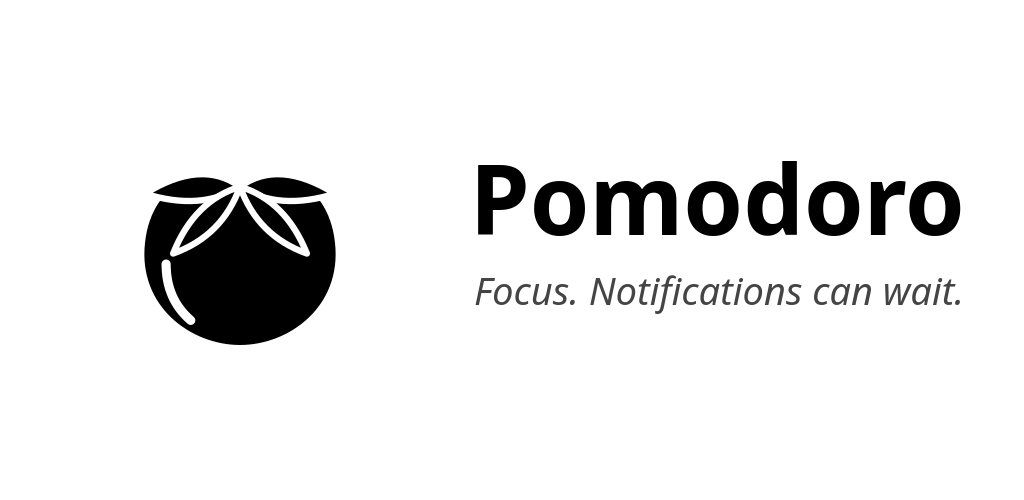
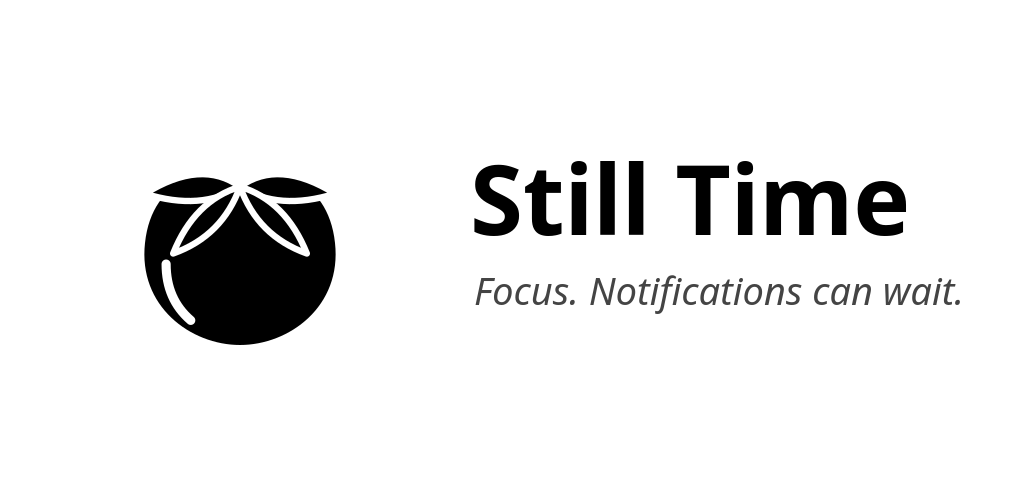
Update doc

Changed region(s): [[0.4375, 0.3, 0.9375, 0.48]]

diff --git a/app/src/main/java/dev/pomo/AlarmReceiver.kt b/app/src/main/java/dev/pomo/AlarmReceiver.kt
@@ -26,7 +26,7 @@ class AlarmReceiver : BroadcastReceiver() {
             1,
             android.app.Notification.Builder(c, "alerts")
                 .setSmallIcon(R.drawable.ic_stat_pomo)
-                .setContentTitle("Pomodoro")
+                .setContentTitle("Still Time")
                 .setContentText(text)
                 .setContentIntent(open)
                 .setAutoCancel(true)

diff --git a/app/src/main/java/dev/pomo/MainActivity.kt b/app/src/main/java/dev/pomo/MainActivity.kt
@@ -232,7 +232,7 @@ private fun SettingsScreen(
         }
     }
     Box(Modifier.fillMaxSize().systemBarsPadding().padding(16.dp), contentAlignment = Alignment.BottomCenter) {
-        Text("Pomodoro ${appVersion(c)}", style = MaterialTheme.typography.labelMedium)
+        Text("Still Time ${appVersion(c)}", style = MaterialTheme.typography.labelMedium)
     }
 }
 

diff --git a/docs/privacy.md b/docs/privacy.md
@@ -1,14 +1,14 @@
-# Pomodoro privacy policy
+# Still Time privacy policy
 
-_Last updated: 2026-10-31_
+_Last updated: 2026-11-01_
 
-Pomodoro is a free, open-source focus timer for Android and Wear OS (package `org.comichao.pomodoro`). This
+Still Time is a free, open-source focus timer for Android and Wear OS (package `org.comichao.pomodoro`). This
 policy explains what the app does with your information. The short version: **it stays on your devices, and we
 never receive it.**
 
 ## Who is responsible
 
-Pomodoro is published by Mauro Bardelloni. Contact: comichao.dev@gmail.com, or
+Still Time is published by Mauro Bardelloni. Contact: comichao.dev@gmail.com, or
 [open an issue](https://github.com/ESeNonFossiIo/app-pomodoro/issues).
 
 ## What the app stores
@@ -23,7 +23,7 @@ analytics, and it does not use the internet.
 
 ## Notification access
 
-To hold notifications back during a focus session, Pomodoro asks for Android's notification access. While a
+To hold notifications back during a focus session, Still Time asks for Android's notification access. While a
 session runs, it snoozes each new notification until the session ends. To decide whether a notification may
 come through, it looks only at which app sent it, its category (calls, alarms and navigation always get
 through) and whether it is an ongoing notification. **It does not read, store or send the title or text of any
@@ -32,7 +32,7 @@ settings.
 
 ## The list of your apps
 
-To let you choose which apps may interrupt a focus session, Pomodoro lists the apps on your phone that have a
+To let you choose which apps may interrupt a focus session, Still Time lists the apps on your phone that have a
 launcher icon, and finds your phone and messaging apps so they are allowed by default. This list is built on
 your phone, is used only for that setting and is never sent anywhere.
 
@@ -42,7 +42,7 @@ Nothing is sent to us or to any server. Two transfers exist, both on your side:
 
 1. **Phone and watch:** if you use the Wear OS app, the timer state and tag travel between your own phone and
    watch through Wear OS's built-in data link (part of Google Play services). Messages go to the other copy of
-   Pomodoro only.
+   Still Time only.
 2. **CSV export:** if you choose Export CSV, the app writes your session log to a file in the place you pick
    with Android's file picker. What happens to that file afterwards is up to you.
 
@@ -63,7 +63,7 @@ The app never asks for access to your files, contacts, location, camera or micro
 
 ## Children
 
-Pomodoro is not directed at children and does not knowingly collect any information from anyone.
+Still Time is not directed at children and does not knowingly collect any information from anyone.
 
 ## Changes
 

diff --git a/README.md b/README.md
@@ -1,4 +1,4 @@
-# Pomodoro
+# Still Time
 
 A simple pomodoro timer for Android that silences your notifications while you focus.
 
@@ -32,9 +32,9 @@ You need Android 8.0 or newer. The app isn't on the Play Store, so you install i
    `pomodoro-<version>-release.apk`.
 2. Open the downloaded file and install it. Android will ask you to allow installing apps from your browser
    or file manager ("install unknown apps"). Allow it for that app.
-3. Open **Pomodoro** and tap **Grant access** to let it manage notifications. Without this it can't silence
+3. Open **Still Time** and tap **Grant access** to let it manage notifications. Without this it can't silence
    anything.
-   - On Android 13 and newer, if the access setting is greyed out, go to Settings > Apps > Pomodoro, open the
+   - On Android 13 and newer, if the access setting is greyed out, go to Settings > Apps > Still Time, open the
      menu (⋮) and choose **Allow restricted settings**. Then try again.
 
 To check that a download is intact, download `SHA256SUMS` from the same release and run
@@ -98,14 +98,14 @@ Watch apps can't be installed from a file on the watch itself, so you need a com
    adb -s <address>:<port> install pomodoro-wear-<version>-release.apk
    ```
 
-6. Open **Pomodoro** on the watch. Turn Wireless debugging off again afterwards to save battery.
+6. Open **Still Time** on the watch. Turn Wireless debugging off again afterwards to save battery.
 
 Install the phone and watch apps from the same release. They have to be signed with the same key to talk to each
 other.
 
 ## Good to know
 
-- Pomodoro holds notifications back, it doesn't block them: a notification can flash for a moment before it is
+- Still Time holds notifications back, it doesn't block them: a notification can flash for a moment before it is
   snoozed.
 - The end-of-session alert can be a few seconds late, because Android saves battery by batching alarms.
 - Your sessions and settings are stored only on your devices. If you use the watch, the two devices share the

diff --git a/docs/play/listing.md b/docs/play/listing.md
@@ -1,10 +1,10 @@
-# Google Play listing: Pomodoro
+# Google Play listing: Still Time
 
 Default language: English (United Kingdom), en-GB. Category: Productivity. Contact email: comichao.dev@gmail.com.
 
 ## App name (max 30)
 
-Pomodoro
+Still Time
 
 ## Short description (max 80)
 
@@ -12,7 +12,7 @@ A pomodoro timer that holds back your notifications while you focus.
 
 ## Full description (max 4000)
 
-Pomodoro is a simple focus timer that keeps your phone quiet while you work.
+Still Time is a simple focus timer that keeps your phone quiet while you work.
 
 Start a focus session with one tap. Notifications from every app are held back until the session ends, then
 they come back. Calls, alarms and navigation always get through, and you choose which other apps are never
@@ -39,7 +39,7 @@ PRIVATE BY DESIGN
 • Your sessions and settings stay on your devices
 • Phone and watch talk directly through Wear OS's built-in data link
 
-Pomodoro needs notification access to hold notifications back during a session. It does not read, store or
+Still Time needs notification access to hold notifications back during a session. It does not read, store or
 send their content; it only snoozes them until the session ends.
 
 Source code: https://github.com/ESeNonFossiIo/app-pomodoro

diff --git a/RELEASING.md b/RELEASING.md
@@ -1,4 +1,4 @@
-# Releasing Pomodoro
+# Releasing Still Time
 
 Two apps ship together from this repo: the phone app (`:app`) and the Wear OS app (`:wear`). They share the
 application id `org.comichao.pomodoro` and the same release key. Releases go to GitHub (APKs) and Google Play
@@ -40,7 +40,8 @@ Rules:
 
 ### Codes already used in Play (never reuse)
 
-None yet. Add each code after it is uploaded.
+`4` and `1004` (0.3.0, uploaded before the rename to Still Time, then replaced), `5` and `1005` (0.3.1).
+Next free phone code: `6` (watch `1006`). Add each code after it is uploaded.
 
 ## Releasing
 

diff --git a/docs/development.md b/docs/development.md
@@ -1,6 +1,6 @@
 # Development
 
-Notes for building, releasing and changing Pomodoro. For installing and using the app, see the
+Notes for building, releasing and changing Still Time. For installing and using the app, see the
 [README](../README.md).
 
 ## Layout
